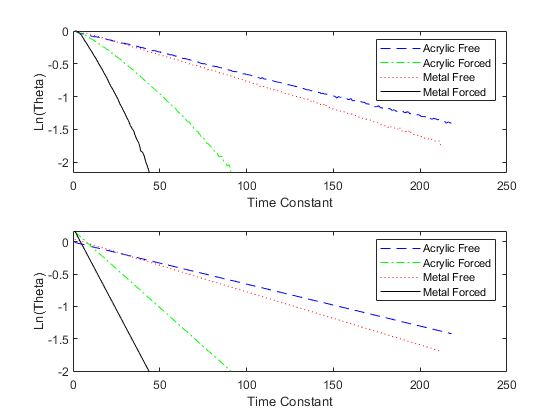
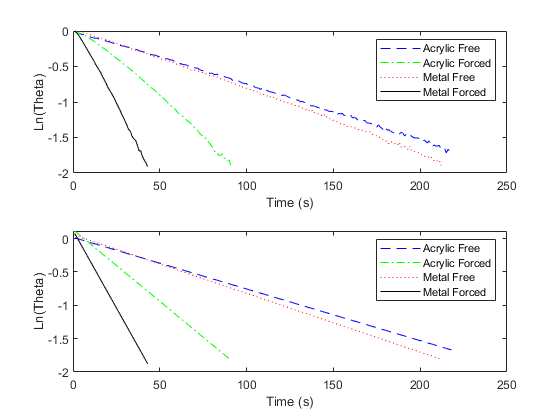
huh

diff --git a/MAE170/Lab 6/AveragedNonlinearPlots.m b/MAE170/Lab 6/AveragedNonlinearPlots.m
@@ -1,4 +1,4 @@
-close all; clear all; clc;
+ close all; clear all; clc;
 
 Tamb = 22;
 
@@ -40,30 +40,44 @@ T(1, :) = T1(1:minlen);
 T(2, :) = T2(1:minlen);
 T(3, :) = T3(1:minlen);
 
+theta(1, :) = (T1(1:minlen)-T1_amb(1:minlen))./(T1(1)-T1_amb(1:minlen));
+theta(2, :) = (T2(1:minlen)-T2_amb(1:minlen))./(T2(1)-T2_amb(1:minlen));
+theta(3, :) = (T3(1:minlen)-T3_amb(1:minlen))./(T3(1)-T3_amb(1:minlen));
+
+avgTheta_AcyFree = mean(theta);
+
 avgT_AcyFree = mean(T);
+
 clear T;
+clear theta;
 
 %% Acrylic Forced
 
 load('lab6AcrylicForced1.mat'); clc;
 
 plateT1 = tempPlateC;
+ambT1 = tempAmbC;
 
 load('lab6AcrylicForced2.mat'); clc;
 
 plateT2 = tempPlateC;
+ambT2 = tempAmbC;
 
 load('lab6AcrylicForced3.mat'); clc;
 
 plateT3 = tempPlateC;
+ambT3 = tempAmbC;
 
 [max1, ind1] = max(plateT1);
 [max2, ind2] = max(plateT2);
 [max3, ind3] = max(plateT3);
 
 T1 = plateT1(ind1: end);
+T1_amb = ambT1(ind1:end);
 T2 = plateT2(ind2: end);
+T2_amb = ambT2(ind2:end);
 T3 = plateT3(ind3: end);
+T3_amb = ambT3(ind3:end);
 
 len(1) = length(T1);
 len(2) = length(T2);
@@ -75,30 +89,43 @@ T(1, :) = T1(1:minlen);
 T(2, :) = T2(1:minlen);
 T(3, :) = T3(1:minlen);
 
+theta(1, :) = (T1(1:minlen)-T1_amb(1:minlen))./(T1(1)-T1_amb(1:minlen));
+theta(2, :) = (T2(1:minlen)-T2_amb(1:minlen))./(T2(1)-T2_amb(1:minlen));
+theta(3, :) = (T3(1:minlen)-T3_amb(1:minlen))./(T3(1)-T3_amb(1:minlen));
+
+avgTheta_AcyForced = mean(theta);
+
 avgT_AcyForced = mean(T);
 clear T;
+clear theta;
 
 %% Metal Free
 
 load('lab6MetalFree1.mat'); clc;
 
 plateT1 = tempPlateC;
+ambT1 = tempAmbC;
 
 load('lab6MetalFree2.mat'); clc;
 
 plateT2 = tempPlateC;
+ambT2 = tempAmbC;
 
 load('lab6MetalFree3.mat'); clc;
 
 plateT3 = tempPlateC;
+ambT3 = tempAmbC;
 
 [max1, ind1] = max(plateT1);
 [max2, ind2] = max(plateT2);
 [max3, ind3] = max(plateT3);
 
 T1 = plateT1(ind1: end);
+T1_amb = ambT1(ind1:end);
 T2 = plateT2(ind2: end);
+T2_amb = ambT2(ind2:end);
 T3 = plateT3(ind3: end);
+T3_amb = ambT3(ind3:end);
 
 len(1) = length(T1);
 len(2) = length(T2);
@@ -110,30 +137,48 @@ T(1, :) = T1(1:minlen);
 T(2, :) = T2(1:minlen);
 T(3, :) = T3(1:minlen);
 
+theta(1, :) = (T1(1:minlen)-T1_amb(1:minlen))./(T1(1)-T1_amb(1:minlen));
+theta(2, :) = (T2(1:minlen)-T2_amb(1:minlen))./(T2(1)-T2_amb(1:minlen));
+theta(3, :) = (T3(1:minlen)-T3_amb(1:minlen))./(T3(1)-T3_amb(1:minlen));
+
+avgTheta_MetalFree = mean(theta);
+
 avgT_MetalFree = mean(T);
 clear T;
+clear theta;
 
 %% MetalForced
 
 load('lab6MetalForced1.mat'); clc;
 
 plateT1 = tempPlateC;
+ambT1 = tempAmbC;
 
 load('lab6MetalForced2.mat'); clc;
 
 plateT2 = tempPlateC;
+ambT2 = tempAmbC;
 
 load('lab6MetalForced3.mat'); clc;
 
 plateT3 = tempPlateC;
+ambT3 = tempAmbC;
 
 [max1, ind1] = max(plateT1);
 [max2, ind2] = max(plateT2);
 [max3, ind3] = max(plateT3);
 
-T1 = plateT1(ind1+5: end);
-T2 = plateT2(ind2+5: end);
-T3 = plateT3(ind3+5: end);
+ind1 = ind1+7;
+ind2 = ind2+6;
+ind3 = ind3+6;
+
+
+T1 = plateT1(ind1: end);
+T1_amb = ambT1(ind1:end);
+T2 = plateT2(ind2: end);
+T2_amb = ambT2(ind2:end);
+T3 = plateT3(ind3: end);
+T3_amb = ambT3(ind3:end);
 
 len(1) = length(T1);
 len(2) = length(T2);
@@ -145,8 +190,15 @@ T(1, :) = T1(1:minlen);
 T(2, :) = T2(1:minlen);
 T(3, :) = T3(1:minlen);
 
+theta(1, :) = (T1(1:minlen)-T1_amb(1:minlen))./(T1(1)-T1_amb(1:minlen));
+theta(2, :) = (T2(1:minlen)-T2_amb(1:minlen))./(T2(1)-T2_amb(1:minlen));
+theta(3, :) = (T3(1:minlen)-T3_amb(1:minlen))./(T3(1)-T3_amb(1:minlen));
+
+avgTheta_MetalForced = mean(theta);
+
 avgT_MetalForced = mean(T);
 clear T;
+clear theta;
 
 
 %% Plot
@@ -165,17 +217,14 @@ legend('Acrylic Plate Temperature w/ Free Convection', ...
 xlabel('Time (s)'); ylabel('Temperature (C)');
 
     
-theta_AcyFree = (avgT_AcyFree-Tamb)/(avgT_AcyFree(1)-Tamb);
-theta_AcyForced = (avgT_AcyForced-Tamb)/(avgT_AcyForced(1)-Tamb);
-theta_MetalFree = (avgT_MetalFree-Tamb)/(avgT_MetalFree(1)-Tamb);
-theta_MetalForced = (avgT_MetalForced-Tamb)/(avgT_MetalForced(1)-Tamb);
+
 
 figure(2);
 
-y1 = log(theta_AcyFree);
-y2 = log(theta_AcyForced);
-y3 = log(theta_MetalFree);
-y4 = log(theta_MetalForced);
+y1 = log(avgTheta_AcyFree);
+y2 = log(avgTheta_AcyForced);
+y3 = log(avgTheta_MetalFree);
+y4 = log(avgTheta_MetalForced);
 
 x1 = 1:length(y1);
 x2 = 1:length(y2);
@@ -187,7 +236,7 @@ plot(y1, 'b--'); hold on;
 plot(y2, 'g-.'); hold on;
 plot(y3, 'r:'); hold on;
 plot(y4, 'k-'); hold on;
-xlabel('Time Constant'); ylabel('Ln(Theta)');
+xlabel('Time (s)'); ylabel('Ln(Theta)');
 legend('Acrylic Free', 'Acrylic Forced', 'Metal Free', 'Metal Forced');
 
 subplot(2, 1, 2);
@@ -217,5 +266,5 @@ plot(x1, f1(1)*x1 + f1(2),'b--'); hold on;
 plot(x2, f2(1)*x2 + f2(2), 'g-.'); hold on;
 plot(x3, f3(1)*x3 + f3(2), 'r:'); hold on;
 plot(x4, f4(1)*x4 + f4(2), 'k-'); hold on;
-xlabel('Time Constant'); ylabel('Ln(Theta)');
+xlabel('Time (s)'); ylabel('Ln(Theta)');
 legend('Acrylic Free', 'Acrylic Forced', 'Metal Free', 'Metal Forced');

diff --git a/MAE170/Lab 6/LinearPlots.m b/MAE170/Lab 6/LinearPlots.m
@@ -1,0 +1,45 @@
+close all; clear all; clc;
+
+figure(1);
+
+
+%% Acrylic Free
+
+load('lab6AcrylicFree1.mat'); clc;
+
+plateT1 = tempPlateC;
+ambT1 = tempAmbC;
+
+load('lab6AcrylicFree2.mat'); clc;
+
+plateT2 = tempPlateC;
+ambT2 = tempAmbC;
+
+load('lab6AcrylicFree3.mat'); clc;
+
+plateT3 = tempPlateC;
+ambT3 = tempAmbC;
+
+[max1, ind1] = max(plateT1);
+[max2, ind2] = max(plateT2);
+[max3, ind3] = max(plateT3);
+
+T1 = plateT1(ind1: end);
+T1_amb = ambT1(ind1:end);
+T2 = plateT2(ind2: end);
+T2_amb = ambT2(ind2:end);
+T3 = plateT3(ind3: end);
+T3_amb = ambT3(ind3:end);
+
+len(1) = length(T1);
+len(2) = length(T2);
+len(3) = length(T3);
+
+minlen = min(len);
+
+theta(1, :) = (T1(1:minlen)-T1_amb(1:minlen))./(T1(1)-T1_amb(1:minlen));
+theta(2, :) = (T2(1:minlen)-T2_amb(1:minlen))./(T2(1)-T2_amb(1:minlen));
+theta(3, :) = (T3(1:minlen)-T3_amb(1:minlen))./(T3(1)-T3_amb(1:minlen));
+
+avgTheta_AcyFree = mean(theta);
+
